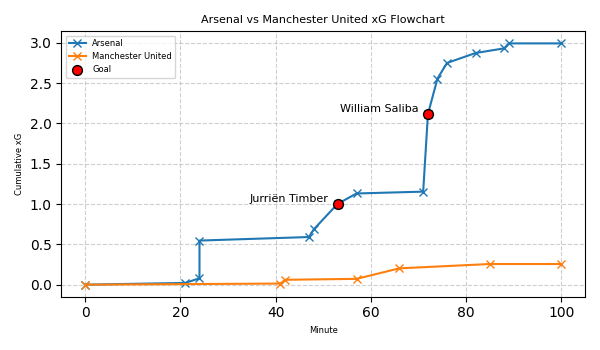
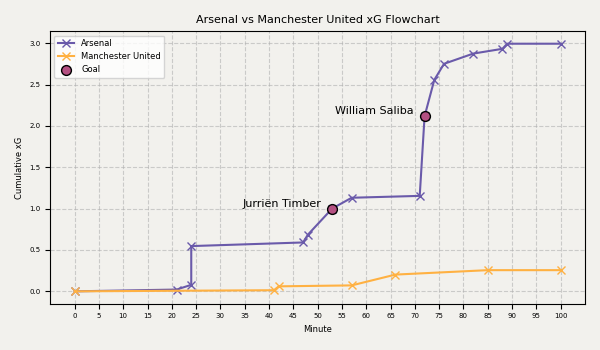
Advancing graph

Changed region(s): [[0.0, 0.0857, 0.99, 0.9714], [0.33, 0.0286, 0.75, 0.0857]]

diff --git a/montecarlo/post_game_viz.py b/montecarlo/post_game_viz.py
@@ -237,6 +237,12 @@ predictions_output = montecarlo_simulation(df, home_team, away_team)
 ############################################################################################
 ## Section 3 - Viz Generation | Statsbomb as Reference
 ############################################################################################
+# color palette:
+widget_background = '#F2F1ED'
+primary_text = '#223459'
+home_color = '#6A5AAA'
+away_color = '#FFB142'
+goal_tickmark_color = '#B45082'
 
 # ------------- xG Flowchart ---------------------
 # Creating dummy data for minute axis (min 0 to 100)
@@ -257,28 +263,41 @@ df = df.sort_values(by=['team', 'minute'])
 df['cumulative_xG'] = df.groupby('team')['xG'].cumsum()
 
 # Plotting xG flowchart
-plt.figure(figsize=(6, 3.5))
-for team, group in df.groupby('team'):
-    plt.plot(group['minute'], group['cumulative_xG'], label=team, marker='x')
+fig, ax = plt.subplots(figsize=(6, 3.5))  # Create figure and axis
+
+# Set background of the axis to light gray
+ax.set_facecolor(widget_background)
+
+colors = [home_color, away_color]  
+for i, (team, group) in enumerate(df.groupby('team')):
+    ax.plot(group['minute'], group['cumulative_xG'], label=team, marker='x', color=colors[i % len(colors)])
+
+#for team, group in df.groupby('team'):
+#    ax.plot(group['minute'], group['cumulative_xG'], label=team, marker='x')
 
 # Overlay markers for goals
 goal_shots = df[df['result'] == 'Goal']
-plt.scatter(goal_shots['minute'], goal_shots['cumulative_xG'], color='red', label='Goal', zorder=5, edgecolor='black', s=50)
+ax.scatter(goal_shots['minute'], goal_shots['cumulative_xG'], color=goal_tickmark_color, label='Goal', zorder=5, edgecolor='black', s=50)
 
 # Annotate with player names for goals
 for _, row in goal_shots.iterrows():
-    plt.text(row['minute'] - 18.5, row['cumulative_xG'], row['player'], fontsize=8, color='black', va='bottom', ha='left')
+    ax.text(row['minute'] - 18.5, row['cumulative_xG'], row['player'], fontsize=8, color='black', va='bottom', ha='left')
 
 # Adding titles and labels
-plt.title(f'{home_team} vs {away_team} xG Flowchart', fontsize=8)
-plt.xlabel('Minute', fontsize=6)
-plt.ylabel('Cumulative xG', fontsize=6)
-plt.legend(fontsize=6)
-plt.grid(True, linestyle='--', alpha=0.6)
+ax.set_title(f'{home_team} vs {away_team} xG Flowchart', fontsize=8)
+ax.set_xlabel('Minute', fontsize=6)
+ax.set_ylabel('Cumulative xG', fontsize=6)
+ax.legend(fontsize=6)
+ax.grid(True, linestyle='--', alpha=0.6)
+
+# Smaller tick labels
+ax.tick_params(axis='both', which='major', labelsize=5)  # Adjust tick label size
+ax.set_xticks(range(0, 105, 5))  # Set ticks from 0 to 100 with a step of 5
 
 plt.tight_layout()
-#plt.show()
-plt.savefig('montecarlo/Figures/xGFlowchart.png')
+# Save figure with blue outer background and light gray inner axis background
+plt.savefig('montecarlo/Figures/xGFlowchart.png', facecolor=widget_background)
+
 
 # ------------- Montecarlo Bars ---------------------
 
@@ -312,7 +331,7 @@ plt.tight_layout()
 # Display the chart
 
 plt.tight_layout()
-plt.savefig('montecarlo/Figures/H2HMontecarlo.png')
+plt.savefig('montecarlo/Figures/H2HMontecarlo.png', facecolor=widget_background)
 #plt.show()
 
 # O/U
@@ -345,7 +364,7 @@ plt.tight_layout()
 # Display the chart
 
 plt.tight_layout()
-plt.savefig('montecarlo/Figures/OUMontecarlo.png')
+plt.savefig('montecarlo/Figures/OUMontecarlo.png', facecolor=widget_background)
 #plt.show()
 
 
@@ -389,7 +408,7 @@ width, height = 700, 600
 c = canvas.Canvas(f'montecarlo/Reports/{home_team} vs {away_team}.pdf', pagesize=(width, height))
 
 # Setting up background color -- change when decide color palette
-c.setFillColorRGB(0.10588235, 0.11764706, 0.13333333)  
+c.setFillColorRGB(0.913725, 0.905882, 0.882353)  # Color for #E9E7E1
 c.rect(0, 0, 780, 900, fill=True)
 
 # xG Flowchart- Sample of Images Import
@@ -407,7 +426,7 @@ pdfmetrics.registerFont(TTFont('RobotoThin', font_data))
 ############ Title
 c.setFont('RobotoThin', 30)
 c.setFillColorRGB(1,1,1)  # Set text color to white
-c.setFillColor('white') # change color dynamically to match home_team
+c.setFillColor(primary_text) # change color dynamically to match home_team
 title = f"{home_team} vs {away_team}"
 c.drawString(50, 550, title)
 
@@ -421,7 +440,7 @@ away_ov_data = round(away_ov_data['xG'].sum(),2)
 
 c.setFont('RobotoThin', 30)
 c.setFillColorRGB(1,1,1)  # Set text color to white
-c.setFillColor('white') # change color dynamically to match home_team
+c.setFillColor(primary_text) # change color dynamically to match home_team
 title = f"{home_ov_data} - {away_ov_data}"
 c.drawString(280, 470, title)
 
@@ -431,7 +450,7 @@ away_score_data = len(df[(df['team']==away_team) & (df['result'] == 'Goal')])
 
 c.setFont('RobotoThin', 30)
 c.setFillColorRGB(1,1,1)  # Set text color to white
-c.setFillColor('white') # change color dynamically to match home_team
+c.setFillColor(primary_text) # change color dynamically to match home_team
 title = f"{home_score_data} - {away_score_data}"
 c.drawString(50, 520, title)
 
@@ -439,7 +458,7 @@ c.drawString(50, 520, title)
 ############ Text - Probabilities for H2H
 c.setFont('RobotoThin', 10)
 c.setFillColorRGB(1,1,1)  # Set text color to white
-c.setFillColor('white') # change color dynamically to match home_team
+c.setFillColor(primary_text) # change color dynamically to match home_team
 
 
 # Example labels for the predictions
@@ -459,7 +478,7 @@ for prediction in formatted_predictions:
 ############ Text Probabilities for O/U
 c.setFont('RobotoThin', 10)
 c.setFillColorRGB(1,1,1)  # Set text color to white
-c.setFillColor('white') # change color dynamically to match home_team
+c.setFillColor(primary_text) # change color dynamically to match home_team
 
 
 # Example labels for the predictions
@@ -483,6 +502,6 @@ c.save()
 print(predictions_output)
 print('Success')
 
-
+# Color palette from: https://brandguides.brandfolder.com/beautiful-dashboards/themes#starry-night
 # To run python montecarlo/post_game_viz.py 'url'
 # Sample: python montecarlo/post_game_viz.py 'https://understat.com/match/26733'
